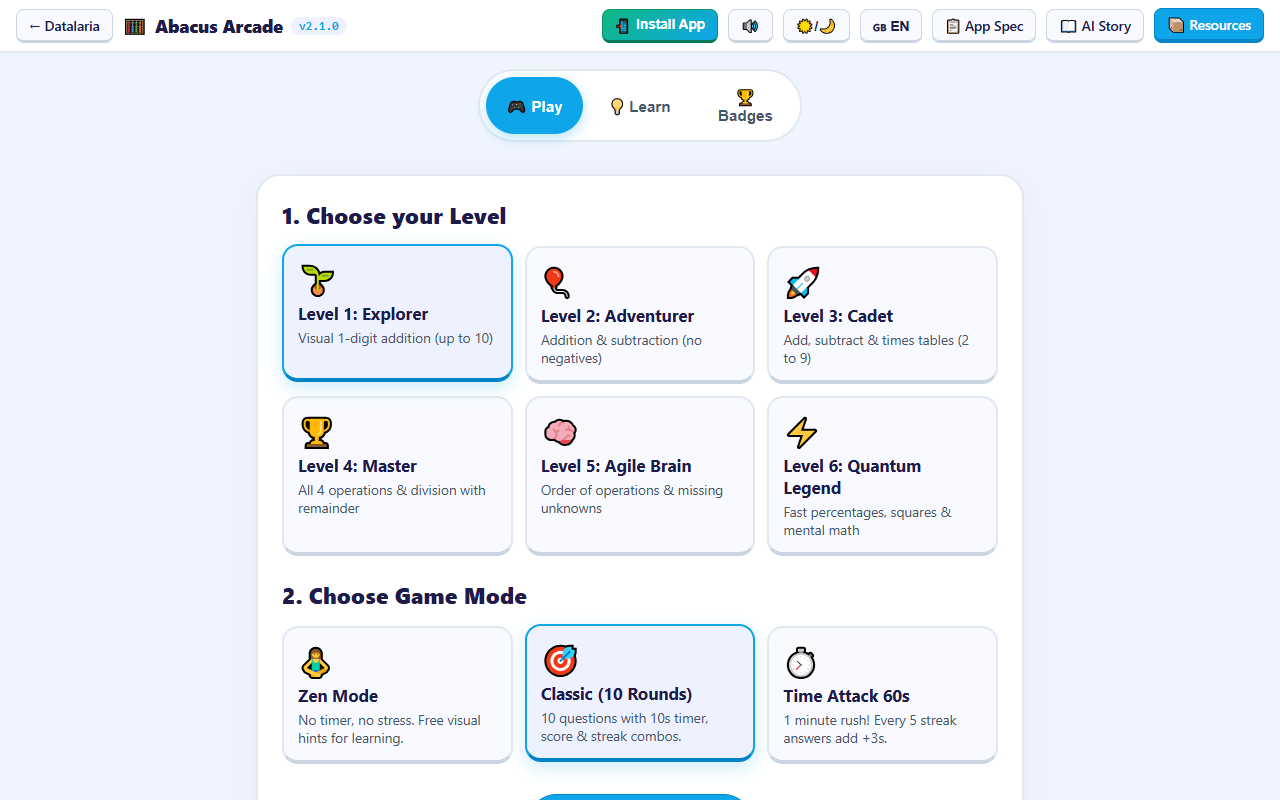
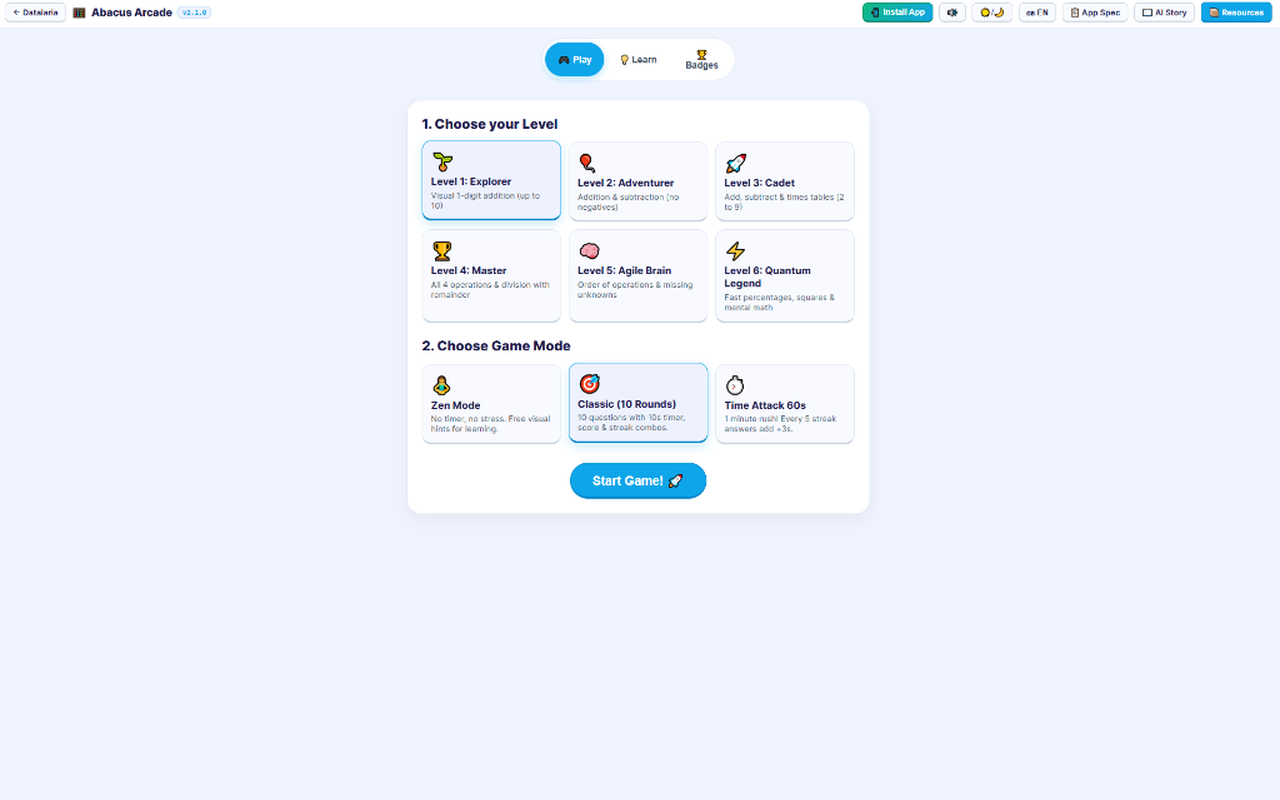
Bug correction start game Maths

diff --git a/static/apps/maths/index.html b/static/apps/maths/index.html
@@ -5,6 +5,7 @@
   <meta name="viewport" content="width=device-width, initial-scale=1.0, maximum-scale=1.0, user-scalable=no">
   <title>Ábaco Arcade — Matemáticas Lúdicas (Datalaria)</title>
   <meta name="theme-color" content="#0ea5e9">
+  <meta name="mobile-web-app-capable" content="yes">
   <meta name="apple-mobile-web-app-capable" content="yes">
   <meta name="apple-mobile-web-app-status-bar-style" content="default">
   <link rel="manifest" href="/apps/maths/manifest.json">
@@ -1062,20 +1063,25 @@ window.MATHS_CATALOG = {
     };
   }
 
-  function randInt(min, max, rng = Math.random) {
-    return Math.floor(rng() * (max - min + 1)) + min;
+  function randInt(min, max, rng) {
+    const f = (typeof rng === 'function') ? rng : Math.random;
+    return Math.floor(f() * (max - min + 1)) + min;
   }
 
-  function pickRandom(arr, rng = Math.random) {
-    return arr[Math.floor(rng() * arr.length)];
+  function pickRandom(arr, rng) {
+    const f = (typeof rng === 'function') ? rng : Math.random;
+    return arr[Math.floor(f() * arr.length)];
   }
 
   const MathsEngine = {
     randInt,
     createSeededRng,
 
-    // Genera un reto determinista según nivel, idioma y generador PRNG
-    generateProblem: function(levelId, lang = 'es', rng = Math.random) {
+    // Genera un reto determinista según nivel, idioma y generador PRNG (robusto ante null/undefined)
+    generateProblem: function(levelId, lang = 'es', rng) {
+      if (typeof rng !== 'function') {
+        rng = Math.random;
+      }
       switch (levelId) {
         case 'l1': {
           // Nivel 1: Sumas de 1 dígito con resultado <= 10
@@ -2067,7 +2073,8 @@ window.MATHS_CATALOG = {
     activeDivisionField = 'quo';
     isHintVisible = false;
     hintUsedThisRound = false;
-    currentProblem = engine.generateProblem(selectedLevel, lang, dailyRng);
+    const prng = (selectedMode === 'daily' && typeof dailyRng === 'function') ? dailyRng : Math.random;
+    currentProblem = engine.generateProblem(selectedLevel, lang, prng);
 
     if (selectedMode === 'classic' || selectedMode === 'daily') {
       timeTotal = 10;

diff --git a/apps/maths/engine.js b/apps/maths/engine.js
@@ -14,20 +14,25 @@
     };
   }
 
-  function randInt(min, max, rng = Math.random) {
-    return Math.floor(rng() * (max - min + 1)) + min;
+  function randInt(min, max, rng) {
+    const f = (typeof rng === 'function') ? rng : Math.random;
+    return Math.floor(f() * (max - min + 1)) + min;
   }
 
-  function pickRandom(arr, rng = Math.random) {
-    return arr[Math.floor(rng() * arr.length)];
+  function pickRandom(arr, rng) {
+    const f = (typeof rng === 'function') ? rng : Math.random;
+    return arr[Math.floor(f() * arr.length)];
   }
 
   const MathsEngine = {
     randInt,
     createSeededRng,
 
-    // Genera un reto determinista según nivel, idioma y generador PRNG
-    generateProblem: function(levelId, lang = 'es', rng = Math.random) {
+    // Genera un reto determinista según nivel, idioma y generador PRNG (robusto ante null/undefined)
+    generateProblem: function(levelId, lang = 'es', rng) {
+      if (typeof rng !== 'function') {
+        rng = Math.random;
+      }
       switch (levelId) {
         case 'l1': {
           // Nivel 1: Sumas de 1 dígito con resultado <= 10

diff --git a/apps/maths/app.js b/apps/maths/app.js
@@ -569,7 +569,8 @@
     activeDivisionField = 'quo';
     isHintVisible = false;
     hintUsedThisRound = false;
-    currentProblem = engine.generateProblem(selectedLevel, lang, dailyRng);
+    const prng = (selectedMode === 'daily' && typeof dailyRng === 'function') ? dailyRng : Math.random;
+    currentProblem = engine.generateProblem(selectedLevel, lang, prng);
 
     if (selectedMode === 'classic' || selectedMode === 'daily') {
       timeTotal = 10;

diff --git a/apps/maths/tests/test_maths_engine.py b/apps/maths/tests/test_maths_engine.py
@@ -204,4 +204,46 @@ def test_inv_maths_11_profiles_and_diploma():
         assert 'datalaria_maths_v2_stats_' in html, "Falta clave aislada por perfil en index.html"
         assert 'diploma-promo-card' in html, "Falta diploma-promo-card en index.html"
 
+def test_inv_maths_12_generate_problem_null_rng_robustness():
+    """Verifica que generateProblem es 100% inmune a rng=null, undefined o ausente en todos los niveles."""
+    import subprocess
+    import json
+
+    node_script = """
+    const fs = require('fs');
+    const path = require('path');
+    const engineCode = fs.readFileSync(path.join(process.cwd(), 'apps/maths/engine.js'), 'utf8');
+    
+    const window = {};
+    eval(engineCode);
+    const engine = window.MathsEngine;
+
+    const levels = ['l1', 'l2', 'l3', 'l4', 'l5', 'l6'];
+    const results = [];
+
+    for (const lvl of levels) {
+      // 1. Probar con null explícito (causa raíz del bug reportado)
+      const pNull = engine.generateProblem(lvl, 'es', null);
+      if (!pNull || !pNull.display) throw new Error(`Fallo con null en ${lvl}`);
+
+      // 2. Probar con undefined
+      const pUndef = engine.generateProblem(lvl, 'es', undefined);
+      if (!pUndef || !pUndef.display) throw new Error(`Fallo con undefined en ${lvl}`);
+
+      // 3. Probar sin 3er argumento
+      const pNone = engine.generateProblem(lvl, 'es');
+      if (!pNone || !pNone.display) throw new Error(`Fallo sin 3er arg en ${lvl}`);
+
+      results.push({ lvl, ok: true });
+    }
+
+    console.log(JSON.stringify({ success: true, count: results.length }));
+    """
+    proc = subprocess.run(["node", "-e", node_script], capture_output=True, text=True)
+    assert proc.returncode == 0, f"Fallo en robustez de engine: {proc.stderr}"
+    res = json.loads(proc.stdout.strip())
+    assert res["success"] is True
+    assert res["count"] == 6
+
+
 

diff --git a/apps/maths/build.py b/apps/maths/build.py
@@ -32,6 +32,7 @@ def build():
   <meta name="viewport" content="width=device-width, initial-scale=1.0, maximum-scale=1.0, user-scalable=no">
   <title>Ábaco Arcade — Matemáticas Lúdicas (Datalaria)</title>
   <meta name="theme-color" content="#0ea5e9">
+  <meta name="mobile-web-app-capable" content="yes">
   <meta name="apple-mobile-web-app-capable" content="yes">
   <meta name="apple-mobile-web-app-status-bar-style" content="default">
   <link rel="manifest" href="/apps/maths/manifest.json">

diff --git a/specs/ROADMAP.md b/specs/ROADMAP.md
@@ -264,4 +264,4 @@ Tras auditar todos los artículos de `/content/es/posts/` y `/content/en/posts/`
 | 2026-11-06 | `Flashcards v2.0.0` | "Operación Mazo Mágico": Evolución de Flashcards AI a Mazo Mágico v2.0 | **COMPLETADO (100% Verificado ✅):**<br>1. ✅ **Checkpoint SDD:** Tag Git `sdd-checkpoint-pre-flashcards-2.0` registrado cleanly.<br>2. ✅ **Especificación UX & Spec v2.0.0:** Aprobada `specs/apps/flashcards/design.md` (Preset `Consumer Playful` aislado para niños y adultos con temas Sunny Studio y Starlight Deck) y actualizada `specs/apps/flashcards/spec.md` a `v2.0.0` (`status: active`) con invariantes `INV-FLASH-1..9`.<br>3. ✅ **Arquitectura Single-Source-of-Truth:** Módulos en `apps/flashcards/` (`catalog.js`, `engine.js`, `ai.js`, `audio.js`, `styles.css`, `app.js`, `build.py`) compilando a `static/apps/flashcards/index.html` 100% nativo (eliminado `cdn.tailwindcss.com` y Giphy). Desplegados 2 shims retrocompatibles en `/es/` y `/en/` con UTF-8 reparando bug `UTF-g` y preservadas plantillas CSV.<br>4. ✅ **6 Mazos Curados & 3 Modos de Juego:** 6 barajas temáticas para niños (ciencias bilingües, espacio, capitales) y adultos (Business English, conceptos IA, estrategia MBA); 3 modos (Giro Leitner 3D, Quiz Arcade 4 opciones y Modo Escritura con pistas ortográficas); sintetizador Web Speech API con velocidad normal (1.0x) y tortuga (0.75x) + Web Audio API 8-bit + confeti Canvas nativo.<br>5. ✅ **Inferencia Gemini Batch JSON:** Migración de llamadas N+1 a un único payload estructurado en JSON con `gemini-2.5-flash` y fallback a `gemini-2.0-flash`.<br>6. ✅ **PWA Offline & Gobernanza Ficha Pública:** Manifiesto PWA (`manifest.json`), Service Worker (`sw.js`), icono vectorial `icon.svg` y script anti-FOUC en `<head>`; ficha `data/apps/flashcards.yaml` actualizada a `v2.0.0` (`status: active`); corregida errata en posts de blog; sincronizado Datalaria Pulse (143 activos, 120 publicados).<br>7. ✅ **Assurance Gate:** 9/9 tests `pytest` en `apps/flashcards/tests/` en verde (100%), 60/60 tests en Helix+Pulse (100%), paridad bilingüe, firewall de `static/` verificado y compilación limpia de Hugo (`hugo --renderToMemory`, 0 errores, código 0 en 16.8s). | ✅ Cerrado |
 | 2026-11-06 | `Maths v2.2.0` | "Ábaco Arcade v2.2": Reto Diario Determinista Wordle, Compartir Resultado y Repaso Didáctico de Fallos | **COMPLETADO (100% Verificado ✅):**<br>1. ✅ **Checkpoint SDD:** Tag Git `sdd-checkpoint-pre-maths-2.2` registrado cleanly.<br>2. ✅ **Especificación UX & Spec v2.2.0:** Elevadas `specs/apps/maths/spec.md` y `specs/apps/maths/design.md` a `v2.2.0` incorporando `INV-MATHS-10` (Determinismo de Semilla en Reto Diario vía Mulberry32 PRNG).<br>3. ✅ **Motor PRNG & Modo Reto Diario:** Implementado generador pseudoaleatorio determinista `createSeededRng(seedStr)` en `engine.js` alimentando `generateProblem(level, lang, rng)`. Secuencia diaria 100% reproducible por fecha YYYY-MM-DD y nivel.<br>4. ✅ **Tira Wordle & Botón Compartir:** Generación de tira visual de 10 bloques (`🟩` acierto limpio, `💡` acierto con pista, `🟥` fallo), botón `📤 Compartir Resultado` con copia al portapapeles y enlace profundo `?mode=daily&level=...&date=...`.<br>5. ✅ **Módulo Didáctico Repaso de Fallos:** Renderizado interactivo de operaciones falladas con su respuesta dada, solución correcta y visualización de pista pedagógica bajo demanda.<br>6. ✅ **Gobernanza Editorial & Ficha Pública:** Actualizada `data/apps/maths.yaml` a `v2.2.0` con la feature y release correspondiente; regeneradas capturas reales `content/{es,en}/apps/maths/cover.png` con Edge headless; sincronizado Datalaria Pulse (143 activos).<br>7. ✅ **Assurance Gate:** 8/8 tests `pytest` en `apps/maths/tests/` en verde (incluyendo test determinista con Node.js), firewall de `static/` verificado y compilación limpia de Hugo (`hugo --renderToMemory`, 0 errores, código de salida 0 en 33.5s). | ✅ Cerrado |
 | 2026-11-06 | `Flashcards v2.1.0` | "Mazo Mágico v2.1": PWA 100% Offline, Suite Maskable, Instalación Multi-Plataforma y Actualización In-App | **COMPLETADO (100% Verificado ✅):**<br>1. ✅ **Checkpoint SDD:** Tag Git `sdd-checkpoint-pre-flashcards-2.1` registrado cleanly.<br>2. ✅ **Especificación UX & Spec v2.1.0:** Elevadas `specs/apps/flashcards/spec.md` y `specs/apps/flashcards/design.md` a `v2.1.0` incorporando `INV-FLASH-8` (PWA Offline completa, `manifest.json`, `sw.js` con `skipWaiting`, banner `#pwa-update-banner`, suite de 6 iconos PNG/SVG con capas maskable e inlined single-file bundle).<br>3. ✅ **Suite de Iconos PWA & Manifiesto:** Generados 5 iconos PNG en alta resolución (`icon-192.png`, `icon-512.png`, `icon-maskable-192.png`, `icon-maskable-512.png`, `apple-touch-icon.png`) a partir del vector canónico `icon.svg` mediante `build_icons.py`. `manifest.json` actualizado con `start_url: "/apps/flashcards/"` y entradas `any` y `maskable`.<br>4. ✅ **Service Worker Inteligente v2.1.0:** `sw.js` actualizado a `CACHE_NAME = 'datalaria-flashcards-v2.1.0'`, precaché de todos los iconos y shims, listener de mensajes con `skipWaiting` y sincronización con `controllerchange` para recarga automática al pulsar en la actualización.<br>5. ✅ **Ergonomía de Instalación y Actualización In-App:** Badge interactivo `#btn-check-update` (`v2.1.0`) en la cabecera para búsqueda proactiva de versiones con feedback en toast; banner flotante `#pwa-update-banner` para aplicar novedades sin fricción; botón multi-plataforma `#btn-install-pwa` adaptativo (Chromium install prompt / guía de instalación en pantalla de inicio para iOS Safari vía toast); contenedor global `#toast-container` para feedback lúdico de medallas y avisos.<br>6. ✅ **Empaquetado Single-File Inline:** `build.py` actualizado para compilar y fusionar de forma determinista `styles.css` y los 5 módulos JS (`catalog.js`, `engine.js`, `ai.js`, `audio.js`, `app.js`) directamente en `static/apps/flashcards/index.html`, erradicando peticiones modulares sueltas en runtime.<br>7. ✅ **Gobernanza Editorial & Ficha Pública:** Actualizada `data/apps/flashcards.yaml` a `v2.1.0` con la nueva entrada en el historial de releases; sincronizado Datalaria Pulse (143 activos consolidados, 120 publicados).<br>8. ✅ **Assurance Gate:** 9/9 tests `pytest` en `apps/flashcards/tests/` en verde (100%), paridad bilingüe ES/EN, firewall estricto de `static/` verificado y compilación limpia de Hugo (`hugo --renderToMemory`, 0 errores, código de salida 0 en 19.5s). | ✅ Cerrado |
-| 2026-11-06 | `Maths v2.3.0` | "Ábaco Arcade v2.3": Perfiles Familiares Multi-Jugador y Generador de Diploma Arcade PNG | **COMPLETADO (100% Verificado ✅):**<br>1. ✅ **Checkpoint SDD:** Tag Git `sdd-checkpoint-pre-maths-2.3` registrado cleanly.<br>2. ✅ **Especificación UX & Spec v2.3.0:** Elevadas `specs/apps/maths/spec.md` y `specs/apps/maths/design.md` a `v2.3.0` incorporando `INV-MATHS-11` (Aislamiento de perfiles locales en `localStorage` y generación client-side de diploma arcade PNG sin dependencias externas).<br>3. ✅ **Selector de Perfil Familiar Multi-Jugador:** Implementada la barra `#profile-bar` con 3 perfiles ('🦁 Jugador 1', '🦊 Jugador 2', '🦉 Adulto') y aislamiento estricto de récords, rachas y medallas en claves `datalaria_maths_v2_stats_<profileId>`.<br>4. ✅ **Generador de Diploma Arcade en PNG (`downloadArcadeDiploma()`):** Módulo nativo en `<canvas>` 2D (1200x800 px) con orla dorada, avatar, récords, colección de medallas desbloqueadas y sello oficial "DATALARIA VERIFIED • EXCELENCIA ARCADE", descargable en 1 clic desde la pestaña de Medallas y pantalla post-juego.<br>5. ✅ **Gobernanza Editorial & Ficha Pública:** Actualizada `data/apps/maths.yaml` a `v2.3.0` con la feature y release correspondiente; regeneradas capturas reales `content/{es,en}/apps/maths/cover.png` con Edge headless mostrando la barra de perfiles; sincronizado Datalaria Pulse (143 activos).<br>6. ✅ **Assurance Gate:** 9/9 tests `pytest` en `apps/maths/tests/` en verde (100%), firewall de `static/` verificado y compilación limpia de Hugo (`hugo --renderToMemory`, 0 errores, código de salida 0 en 14.3s). | ✅ Cerrado |
+| 2026-11-06 | `Maths v2.3.0` | "Ábaco Arcade v2.3": Perfiles Familiares Multi-Jugador y Generador de Diploma Arcade PNG | **COMPLETADO (100% Verificado ✅):**<br>1. ✅ **Checkpoint SDD:** Tag Git `sdd-checkpoint-pre-maths-2.3` registrado cleanly.<br>2. ✅ **Especificación UX & Spec v2.3.0:** Elevadas `specs/apps/maths/spec.md` y `specs/apps/maths/design.md` a `v2.3.0` incorporando `INV-MATHS-11` (Aislamiento de perfiles locales en `localStorage` y generación client-side de diploma arcade PNG sin dependencias externas).<br>3. ✅ **Selector de Perfil Familiar Multi-Jugador:** Implementada la barra `#profile-bar` con 3 perfiles ('🦁 Jugador 1', '🦊 Jugador 2', '🦉 Adulto') y aislamiento estricto de récords, rachas y medallas en claves `datalaria_maths_v2_stats_<profileId>`.<br>4. ✅ **Generador de Diploma Arcade en PNG (`downloadArcadeDiploma()`):** Módulo nativo en `<canvas>` 2D (1200x800 px) con orla dorada, avatar, récords, colección de medallas desbloqueadas y sello oficial "DATALARIA VERIFIED • EXCELENCIA ARCADE", descargable en 1 clic desde la pestaña de Medallas y pantalla post-juego.<br>5. ✅ **Gobernanza Editorial & Ficha Pública:** Actualizada `data/apps/maths.yaml` a `v2.3.0` con la feature y release correspondiente; regeneradas capturas reales `content/{es,en}/apps/maths/cover.png` con Edge headless mostrando la barra de perfiles; sincronizado Datalaria Pulse (143 activos).<br>6. ✅ **Assurance Gate:** 10/10 tests `pytest` en `apps/maths/tests/` en verde (100%, incluyendo test de robustez determinista de RNG ante `null`/`undefined`), firewall de `static/` verificado y compilación limpia de Hugo (`hugo --renderToMemory`, 0 errores, código de salida 0 en 24.3s). | ✅ Cerrado |

diff --git a/content/es/posts/her/index.md b/content/es/posts/her/index.md
@@ -19,7 +19,7 @@ Sin embargo, a finales de 2013, el cineasta y guionista **Spike Jonze** (*Being 
 
 En la visión de Jonze, el futuro no es frío, ni cibernético, ni opresivo. Es una **distopía suave (*soft dystopia*)** empapada de luz natural dorada, maderas nobles, muebles de diseño escandinavo, pantalones de talle alto de pana y camisas en tonos salmón, coral y mostaza. El director de fotografía **Hoyte van Hoytema** (futuro colaborador predilecto de Christopher Nolan en *Interstellar*, *Dunkirk* y *Oppenheimer*) eliminó deliberadamente el color azul de casi todo el metraje para desterrar cualquier reminiscencia de frialdad tecnológica.
 
-{{< youtube 6k3iXk5wKkg >}}
+{{< youtube M7oBRAG8NBg >}}
 
 Y, sin embargo, detrás de esa atmósfera acogedora y melancólica, *Her* encierra **la advertencia más lúcida, sutil y científicamente profética jamás filmada sobre nuestro destino junto a la AGI**. 
 

diff --git a/content/en/posts/her/index.md b/content/en/posts/her/index.md
@@ -19,7 +19,7 @@ Yet in late 2013, writer and director **Spike Jonze** (*Being John Malkovich*, *
 
 In Jonze's vision, the future is neither cold, nor cybernetic, nor openly oppressive. It is a **soft dystopia** bathed in golden natural light, fine wood grains, minimalist Scandinavian furniture, high-waisted corduroy trousers, and shirts in shades of salmon, coral, and mustard. Cinematographer **Hoyte van Hoytema** (who would go on to become Christopher Nolan's trusted visual collaborator on *Interstellar*, *Dunkirk*, and *Oppenheimer*) deliberately banquished the color blue from nearly every interior frame to purge any lingering impression of sterile tech chill.
 
-{{< youtube ne6p6MfLBxc >}}
+{{< youtube dJTU48_yghs >}}
 
 And yet, beneath that cozy, melancholic warmth, *Her* conceals **the most lucid, subtle, and scientifically prophetic warning ever put on film regarding our coexistence with AGI**.
 
